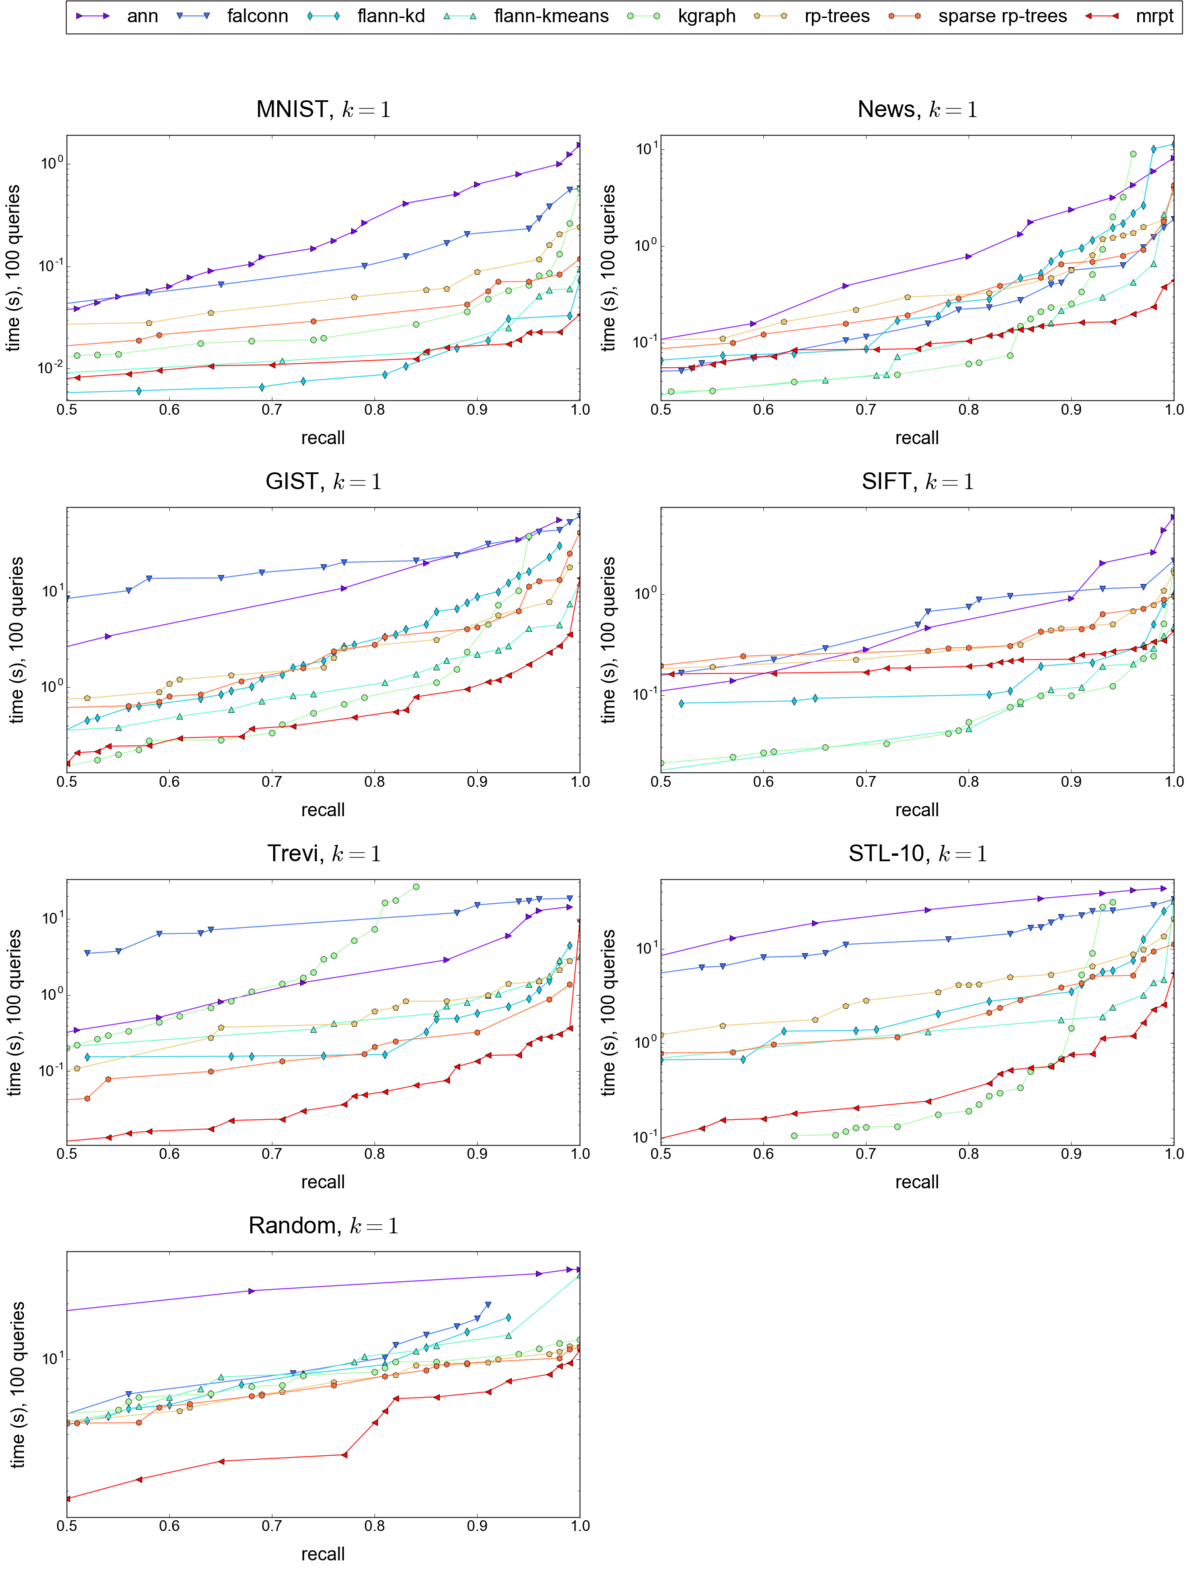
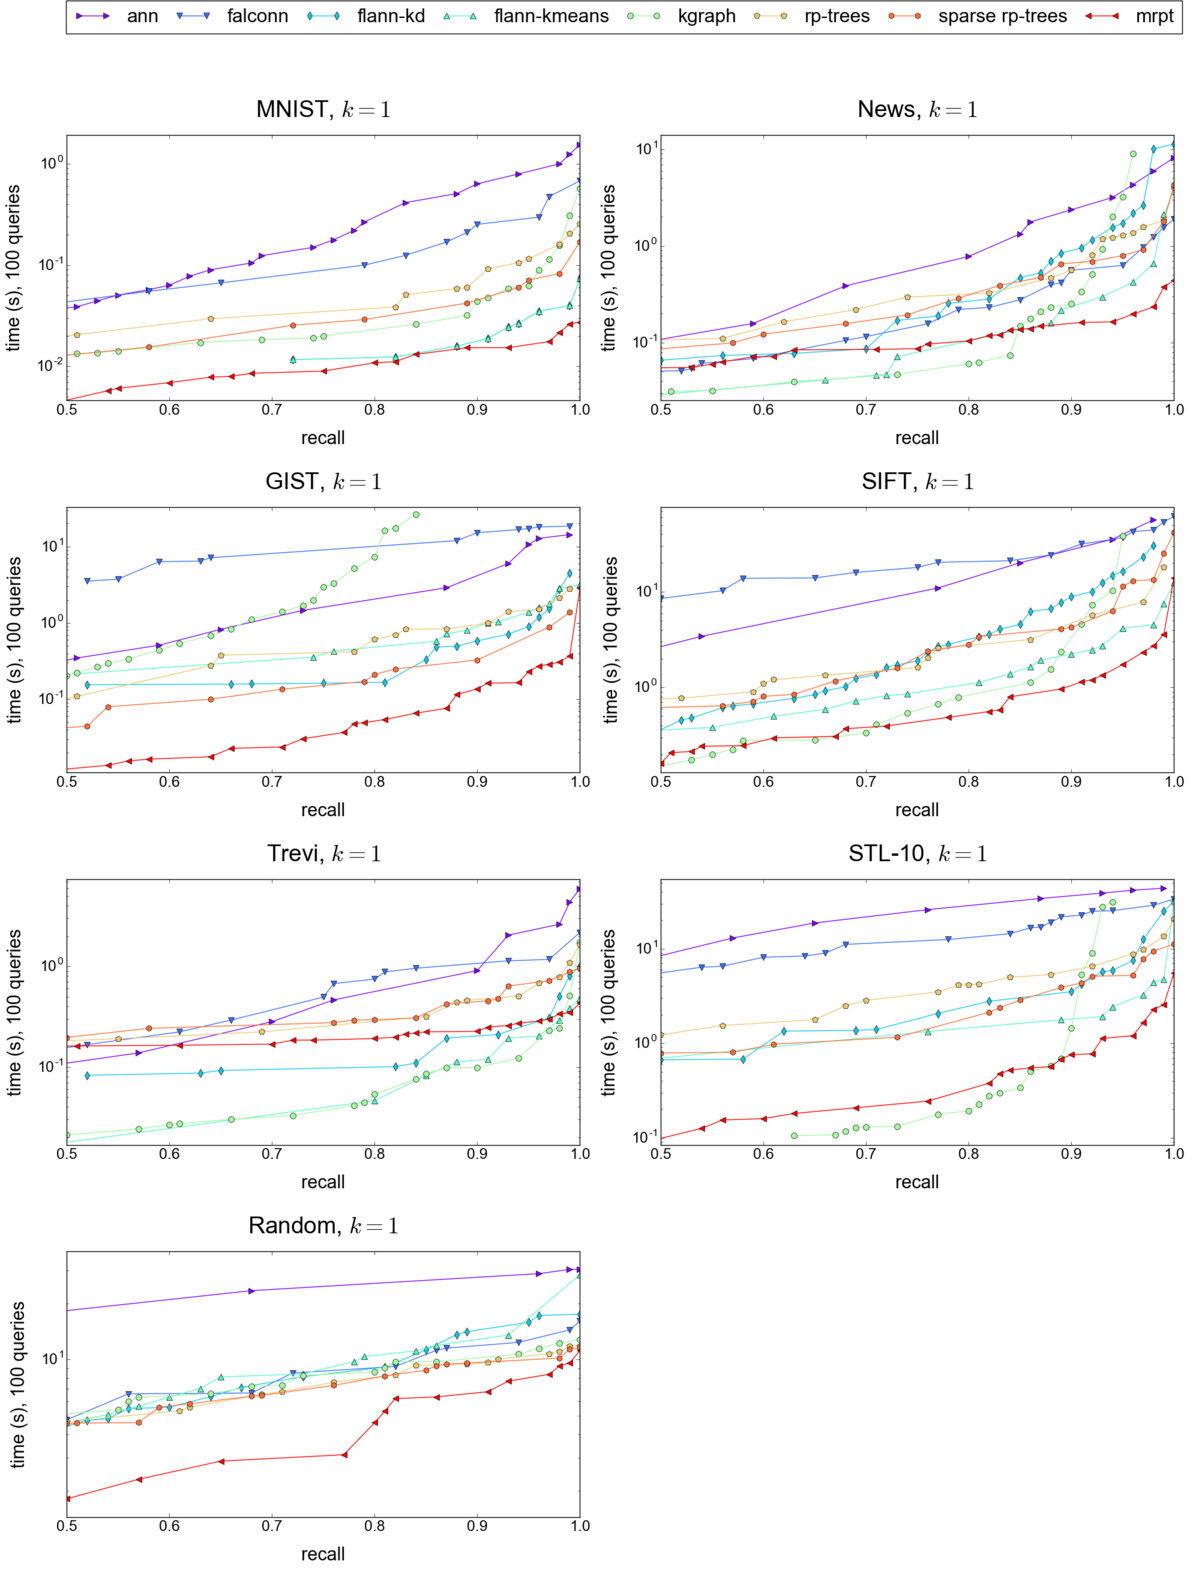
Update results

diff --git a/results/tables/1.md b/results/tables/1.md
@@ -2,10 +2,10 @@ Time taken (seconds) for 100 queries, k = 1:
 
 | data | R | ann | falconn | flann-kd | flann-kmeans | kgraph | rp trees | sparse rp trees | mrpt
 | :-: | :-: | :-: | :-: | :-: | :-: | :-: | :-: | :-: | :-: |
-| MNIST | 0.80 | 0.3 | 0.11 | **0.01** | **0.01** | 0.02 | 0.05 | 0.03 | **0.01** |
-| MNIST | 0.90 | 0.64 | 0.21 | **0.02** | **0.02** | 0.04 | 0.09 | 0.05 | **0.02** |
-| MNIST | 0.95 | 0.85 | 0.23 | 0.03 | 0.04 | 0.07 | 0.11 | 0.07 | **0.02** |
-| MNIST | 0.99 | 1.24 | 0.56 | **0.03** | 0.06 | 0.26 | 0.23 | 0.1 | **0.03** |
+| MNIST | 0.80 | 0.3 | 0.11 | **0.01** | **0.01** | 0.02 | 0.04 | 0.03 | **0.01** |
+| MNIST | 0.90 | 0.63 | 0.25 | **0.02** | **0.02** | 0.04 | 0.08 | 0.05 | **0.02** |
+| MNIST | 0.95 | 0.84 | 0.29 | 0.03 | 0.03 | 0.06 | 0.12 | 0.07 | **0.02** |
+| MNIST | 0.99 | 1.24 | 0.61 | 0.04 | 0.04 | 0.31 | 0.2 | 0.13 | **0.03** |
 | News | 0.80 | 0.78 | 0.22 | 0.27 | 0.11 | **0.06** | 0.32 | 0.31 | 0.1 |
 | News | 0.90 | 2.37 | 0.56 | 0.9 | 0.24 | 0.25 | 0.56 | 0.67 | **0.16** |
 | News | 0.95 | 3.74 | 0.63 | 1.73 | 0.38 | 3.23 | 1.29 | 0.8 | **0.18** |
@@ -26,7 +26,7 @@ Time taken (seconds) for 100 queries, k = 1:
 | STL-10 | 0.90 | 36.42 | 22.22 | 3.5 | 1.81 | 1.45 | 5.92 | 4.11 | **0.76** |
 | STL-10 | 0.95 | 40.66 | 26.17 | 6.7 | 2.7 | - | 8.22 | 5.2 | **1.18** |
 | STL-10 | 0.99 | 43.75 | 31.14 | 24.93 | 4.7 | - | 13.49 | 10.31 | **2.54** |
-| Random | 0.80 | 25.67 | 10.06 | 9.28 | 10.54 | 8.61 | 8.05 | 8.01 | **4.61** |
-| Random | 0.90 | 27.61 | 16.56 | 14.76 | 12.83 | 10.22 | 9.55 | 9.66 | **6.65** |
-| Random | 0.95 | 28.58 | - | - | 17.75 | 11.08 | 10.48 | 9.99 | **8.01** |
-| Random | 0.99 | 30.32 | - | - | 26.24 | 12.52 | 11.77 | 11.35 | **9.59** |
+| Random | 0.80 | 25.67 | 9.05 | 8.99 | 10.54 | 8.61 | 8.05 | 8.01 | **4.61** |
+| Random | 0.90 | 27.61 | 11.88 | 14.39 | 12.83 | 10.22 | 9.55 | 9.66 | **6.65** |
+| Random | 0.95 | 28.58 | 12.77 | 15.81 | 17.75 | 11.08 | 10.48 | 9.99 | **8.01** |
+| Random | 0.99 | 30.32 | 14.42 | 17.41 | 26.24 | 12.52 | 11.77 | 11.35 | **9.59** |

diff --git a/results/tables/100.md b/results/tables/100.md
@@ -2,10 +2,10 @@ Time taken (seconds) for 100 queries, k = 100:
 
 | data | R | ann | falconn | flann-kd | flann-kmeans | kgraph | rp trees | sparse rp trees | mrpt
 | :-: | :-: | :-: | :-: | :-: | :-: | :-: | :-: | :-: | :-: |
-| MNIST | 0.80 | 1.74 | 0.41 | 0.13 | **0.05** | 0.06 | 0.26 | 0.16 | **0.05** |
-| MNIST | 0.90 | 2.65 | 0.64 | 0.2 | 0.08 | **0.06** | 0.41 | 0.25 | 0.08 |
-| MNIST | 0.95 | 3.48 | 0.97 | 0.33 | 0.11 | **0.08** | 0.5 | 0.34 | 0.11 |
-| MNIST | 0.99 | 4.92 | 2.24 | 0.66 | 0.23 | **0.16** | 0.83 | 0.61 | 0.19 |
+| MNIST | 0.80 | 1.74 | 0.4 | 0.11 | 0.06 | **0.05** | 0.24 | 0.16 | **0.05** |
+| MNIST | 0.90 | 2.66 | 0.64 | 0.2 | 0.09 | **0.06** | 0.36 | 0.25 | 0.08 |
+| MNIST | 0.95 | 3.49 | 0.98 | 0.33 | 0.12 | **0.08** | 0.48 | 0.33 | 0.1 |
+| MNIST | 0.99 | 4.93 | 2.24 | 0.67 | 0.27 | **0.16** | 0.81 | 0.62 | 0.2 |
 | News | 0.80 | 4.33 | 1.01 | 2.92 | 0.38 | **0.09** | 1.51 | 1.22 | 0.26 |
 | News | 0.90 | 8.18 | 1.66 | 10.57 | 1.33 | **0.14** | 2.62 | 2.72 | 0.46 |
 | News | 0.95 | 12.26 | 2.54 | 25.88 | 3.35 | **0.32** | 3.99 | 3.9 | 0.62 |
@@ -26,7 +26,7 @@ Time taken (seconds) for 100 queries, k = 100:
 | STL-10 | 0.90 | 47.02 | 29.74 | 13.95 | 5.04 | **0.61** | 13.05 | 9.75 | 3.5 |
 | STL-10 | 0.95 | 53.24 | 36.67 | 21.54 | 6.4 | **1.94** | 17.62 | 13.55 | 4.94 |
 | STL-10 | 0.99 | 59.13 | 47.34 | 42.75 | 9.39 | - | 25.84 | 22.26 | **9.19** |
-| Random | 0.80 | 24.0 | 14.61 | 12.11 | 10.05 | 7.99 | 9.29 | 8.32 | **5.6** |
-| Random | 0.90 | 27.53 | - | 13.95 | 11.87 | 10.23 | 10.25 | 9.81 | **8.39** |
-| Random | 0.95 | 29.31 | - | 14.51 | 12.86 | 10.89 | 11.02 | 10.66 | **9.15** |
-| Random | 0.99 | 30.76 | - | 15.37 | 13.79 | 12.24 | 11.61 | 11.5 | **11.32** |
+| Random | 0.80 | 24.0 | 11.44 | 12.11 | 10.05 | 7.99 | 9.29 | 8.32 | **5.6** |
+| Random | 0.90 | 27.53 | 12.51 | 13.95 | 11.87 | 10.23 | 10.25 | 9.81 | **8.39** |
+| Random | 0.95 | 29.31 | 14.4 | 14.51 | 12.86 | 10.89 | 11.02 | 10.66 | **9.15** |
+| Random | 0.99 | 30.76 | 17.64 | 15.37 | 13.79 | 12.24 | 11.61 | 11.5 | **11.32** |

diff --git a/results/tables/10.md b/results/tables/10.md
@@ -2,10 +2,10 @@ Time taken (seconds) for 100 queries, k = 10:
 
 | data | R | ann | falconn | flann-kd | flann-kmeans | kgraph | rp trees | sparse rp trees | mrpt
 | :-: | :-: | :-: | :-: | :-: | :-: | :-: | :-: | :-: | :-: |
-| MNIST | 0.80 | 0.89 | 0.21 | 0.04 | **0.02** | **0.02** | 0.09 | 0.06 | **0.02** |
-| MNIST | 0.90 | 1.57 | 0.41 | 0.06 | 0.04 | 0.05 | 0.16 | 0.09 | **0.03** |
-| MNIST | 0.95 | 2.29 | 0.55 | 0.07 | 0.06 | 0.08 | 0.21 | 0.13 | **0.04** |
-| MNIST | 0.99 | 3.44 | 1.2 | 0.15 | 0.1 | 0.44 | 0.41 | 0.22 | **0.07** |
+| MNIST | 0.80 | 0.89 | 0.21 | **0.02** | **0.02** | **0.02** | 0.09 | 0.05 | **0.02** |
+| MNIST | 0.90 | 1.57 | 0.36 | 0.04 | 0.04 | 0.04 | 0.16 | 0.08 | **0.03** |
+| MNIST | 0.95 | 2.29 | 0.55 | 0.06 | 0.05 | 0.06 | 0.2 | 0.14 | **0.04** |
+| MNIST | 0.99 | 3.46 | 1.23 | 0.15 | 0.1 | 0.44 | 0.39 | 0.22 | **0.07** |
 | News | 0.80 | 2.15 | 0.39 | 0.56 | 0.26 | **0.05** | 0.71 | 0.64 | 0.12 |
 | News | 0.90 | 4.42 | 0.88 | 2.92 | 0.45 | **0.11** | 1.37 | 1.05 | 0.2 |
 | News | 0.95 | 7.35 | 1.23 | 9.55 | 1.39 | **0.25** | 1.98 | 1.62 | 0.28 |
@@ -26,7 +26,7 @@ Time taken (seconds) for 100 queries, k = 10:
 | STL-10 | 0.90 | 39.38 | 28.62 | 8.76 | 2.72 | **0.39** | 9.45 | 6.32 | 1.52 |
 | STL-10 | 0.95 | 45.0 | 31.46 | 13.39 | 3.53 | **1.13** | 11.62 | 8.58 | 2.43 |
 | STL-10 | 0.99 | 49.67 | 45.42 | 29.96 | 6.1 | 32.12 | 18.56 | 16.89 | **4.28** |
-| Random | 0.80 | 23.86 | 14.05 | 12.55 | 9.73 | 7.59 | 8.55 | 8.2 | **4.55** |
-| Random | 0.90 | 27.33 | - | 13.91 | 11.48 | 9.8 | 10.2 | 9.8 | **6.9** |
-| Random | 0.95 | 29.07 | - | 14.5 | 12.55 | 10.93 | 10.88 | 10.71 | **8.6** |
-| Random | 0.99 | 30.47 | - | 15.37 | 13.7 | 12.02 | 11.59 | 11.42 | **10.36** |
+| Random | 0.80 | 23.86 | 10.1 | 12.55 | 9.73 | 7.59 | 8.55 | 8.2 | **4.55** |
+| Random | 0.90 | 27.33 | 12.27 | 13.91 | 11.48 | 9.8 | 10.2 | 9.8 | **6.9** |
+| Random | 0.95 | 29.07 | 14.28 | 14.5 | 12.55 | 10.93 | 10.88 | 10.71 | **8.6** |
+| Random | 0.99 | 30.47 | 17.03 | 15.37 | 13.7 | 12.02 | 11.59 | 11.42 | **10.36** |
